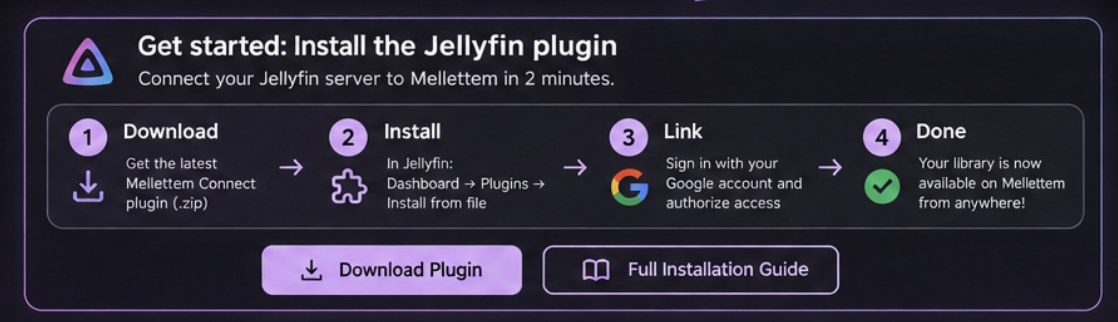
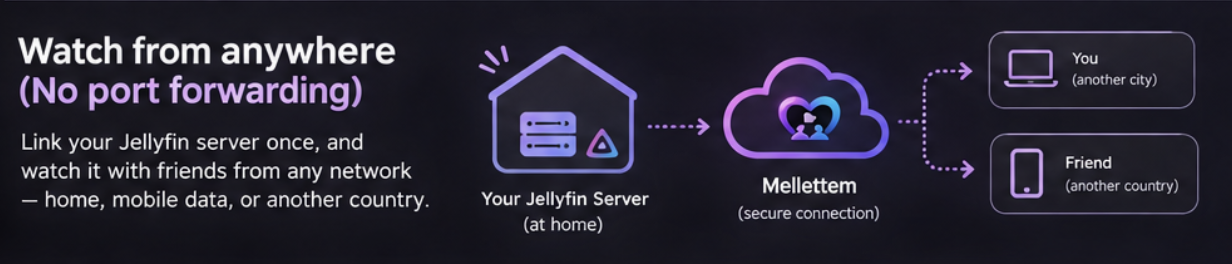
Swap README setup graphics and add audio track image

diff --git a/README.md b/README.md
@@ -42,7 +42,7 @@ Your Jellyfin server stays at home. **Mellettem Connect** links it to your accou
 4. **Choose what to watch.** Open **Share something** and share a YouTube video, or select **Your Jellyfin library**, choose your connected server, and sign in to Jellyfin or use **Quick Connect** to pick a movie.
 5. **Invite and watch.** Select **Invite friends**, send the full invitation link, and approve your friends' requests. Each viewer can choose their own available audio and subtitle tracks.
 
-[![Watch your Jellyfin library remotely with Mellettem, without port forwarding](docs/images/watch-from-anywhere.png)](docs/images/watch-from-anywhere.png)
+[![Install Mellettem Connect, link your Google account, and open your Jellyfin library from anywhere](docs/images/install-plugin-steps.png)](docs/images/install-plugin-steps.png)
 
 **Using your Jellyfin library?** Mellettem Connect is a Jellyfin server plugin that securely links your home library to your Mellettem account through an outbound connection. It needs no port forwarding or public Jellyfin address. Install it once, connect with Google, and your server is available from your account on other devices. Friends can join your room without installing the plugin.
 
@@ -51,7 +51,7 @@ Your Jellyfin server stays at home. **Mellettem Connect** links it to your accou
 - Install from the [Mellettem Connect catalog](jellyfin-plugin-samerow/manifest.json), then pair it from Jellyfin's plugin settings.
 - Follow the illustrated [Mellettem Connect installation guide](docs/mellettem-connect-installation.md) for repository setup, pairing, and troubleshooting.
 
-[![Install Mellettem Connect, link your Google account, and open your Jellyfin library from anywhere](docs/images/install-plugin-steps.png)](docs/images/install-plugin-steps.png)
+[![Watch your Jellyfin library remotely with Mellettem, without port forwarding](docs/images/watch-from-anywhere.png)](docs/images/watch-from-anywhere.png)
 
 ![Mellettem lobby with sign-in, room controls, and connected-library access](docs/images/lobby.jpg)
 
@@ -64,9 +64,7 @@ Your Jellyfin server stays at home. **Mellettem Connect** links it to your accou
 
 Subtitles work the same way: choose your own language, or turn them off. Audio, subtitles, volume, and quality are personal; the room's play, pause, and seek controls keep the shared experience in sync. Available languages depend on the tracks in your Jellyfin media.
 
-![Mellettem watch room with the shared movie, participant tiles, playback controls, and chat](docs/images/watch-room.jpg)
-
-*The movie, your friends, and the conversation share one room. Playback follows the room timeline while viewing preferences stay personal.*
+[![Two synced viewers choose their own audio and subtitle languages while watching together](docs/images/independent-audio-subtitles.png)](docs/images/independent-audio-subtitles.png)
 
 ## Native resolution over WebRTC, with HTTPS fallback
 
